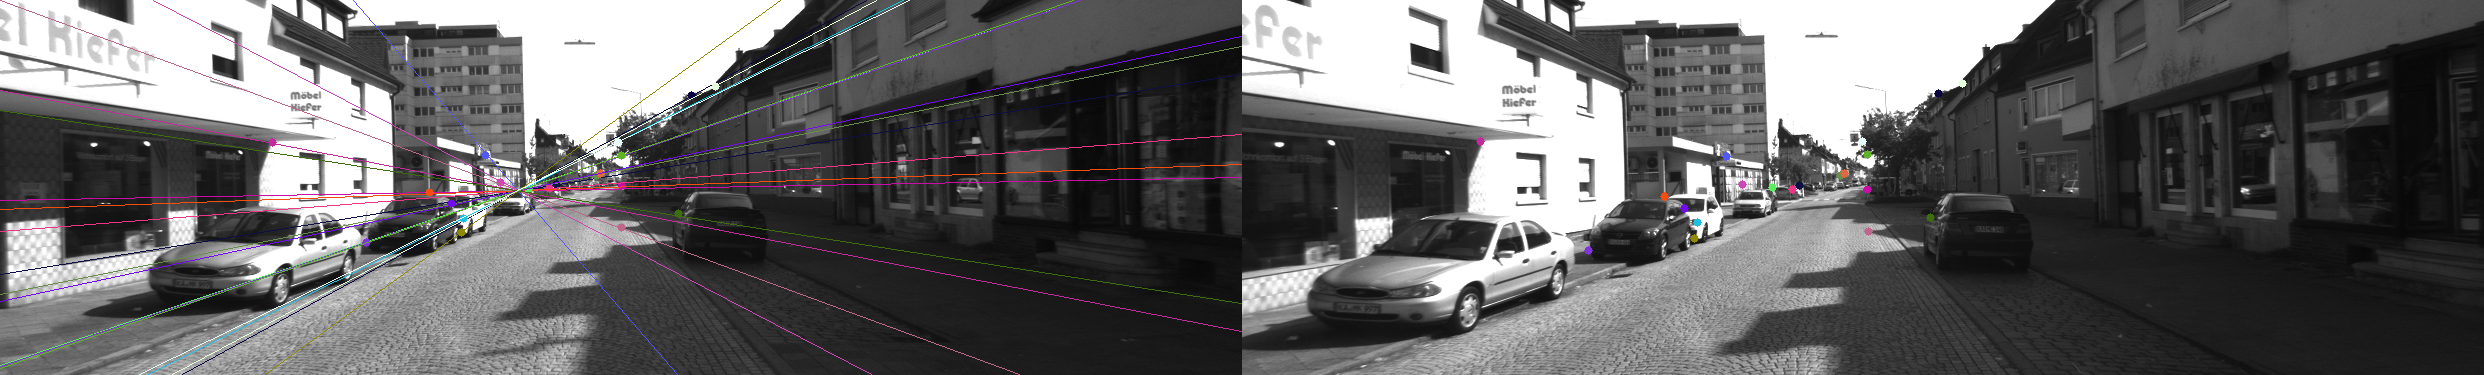
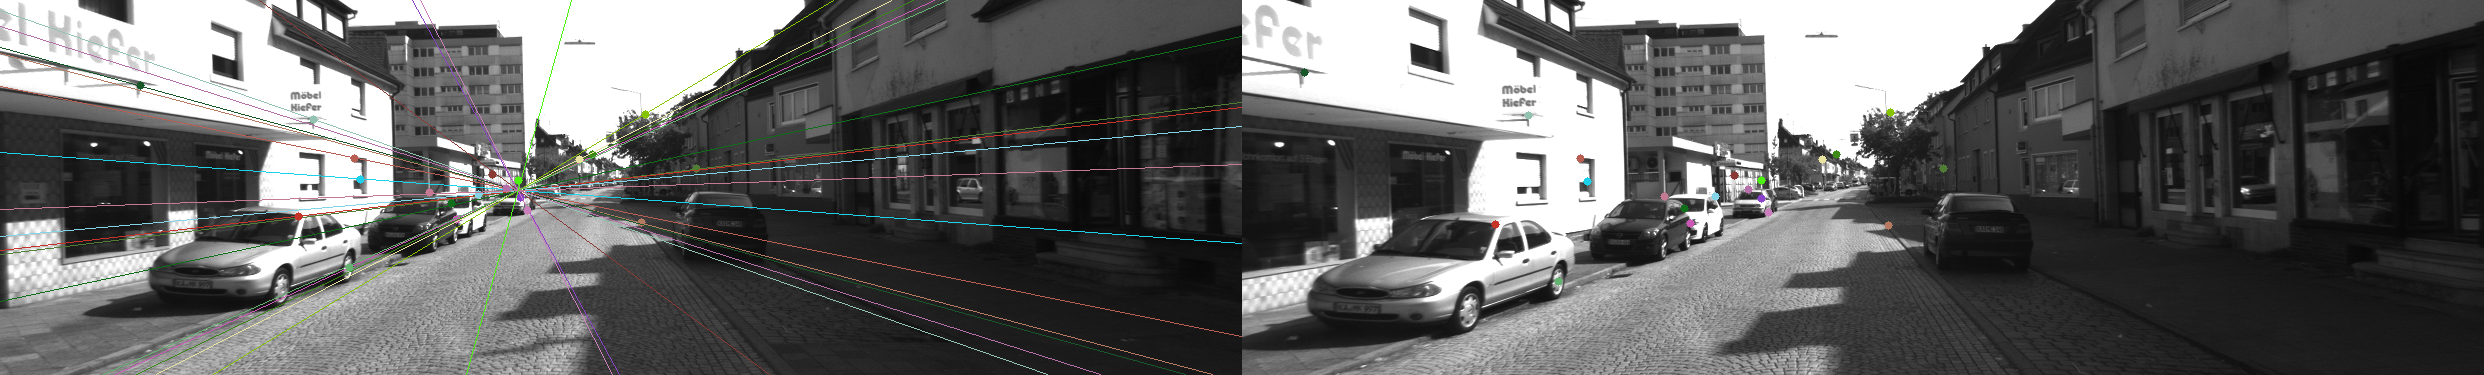
A2 done

diff --git a/code/assign2_task2.cpp b/code/assign2_task2.cpp
@@ -47,8 +47,6 @@ void drawLines(Mat& inImg1, Mat& inImg2, Mat F, vector<Point2d> pts1, vector<Poi
     vconcat(points1.t(), Mat::ones(1, points1.rows, points1.type()), points1);
     vconcat(points2.t(), Mat::ones(1, points2.rows, points2.type()), points2);
 
-    // cout << "Points 1: " << points1.row(0) << endl;
-
     RNG rng(rand());
     const int circle_sz = 4, line_sz = 1, max_lines = 300;
 
@@ -71,16 +69,12 @@ void drawLines(Mat& inImg1, Mat& inImg2, Mat F, vector<Point2d> pts1, vector<Poi
         //from opencv samples - epipolar_lines.cpp
         double a1 = l1.at<double>(0), b1 = l1.at<double>(1), c1 = l1.at<double>(2);
         double a2 = l2.at<double>(0), b2 = l2.at<double>(1), c2 = l2.at<double>(2);
-        const double mag1 = sqrt(a1*a1 + b1*b1), mag2 = (a2*a2 + b2*b2);
+        const double mag1 = sqrt(a1*a1 + b1*b1), mag2 = sqrt(a2*a2 + b2*b2);
         a1 /= mag1; b1 /= mag1; c1 /= mag1; a2 /= mag2; b2 /= mag2; c2 /= mag2;
 
-
-        line(img1, Point2d(0, -c1/b1),
-                Point2d((double)img1.cols, -(a1*img1.cols+c1)/b1), col, line_sz);
-        // line(img2, Point2d(0, -c2/b2),
-        //         Point2d((double)img2.cols, -(a2*img2.cols+c2)/b2), col, line_sz);
-        circle (img1, pts1[i], circle_sz, col, -1);
-        circle (img2, pts2[i], circle_sz, col, -1);
+        line(img1, Point2d(0, -c1/b1), Point2d((double)img1.cols, -(a1*img1.cols+c1)/b1), col, line_sz);
+        circle(img1, pts1[i], circle_sz, col, -1);
+        circle(img2, pts2[i], circle_sz, col, -1);
     }
     inImg1 = img1;
     inImg2 = img2;
@@ -110,9 +104,7 @@ void processEpipolarLines(string matchesFilePath, string img1Path, string img2Pa
     Mat img1 = imread( samples::findFile( img1Path ), IMREAD_GRAYSCALE );
     Mat img2 = imread( samples::findFile( img2Path ), IMREAD_GRAYSCALE );
 
-
     cout << detectorName << endl;
-
     for(auto match : matches)
     {
         Point2f& p1 = kp1[match.queryIdx].pt;
@@ -163,8 +155,7 @@ void processEpipolarLines(string matchesFilePath, string img1Path, string img2Pa
         fundamentalMat = K.t() * fn * K;
     }
 
-    cout << "\tFundamental: " << fundamentalMat.size() << endl<< "\t" << fundamentalMat << endl;
-    cout << "\tDeterminant: " << determinant(fundamentalMat) << endl;
+    cout << "Determinant: " << determinant(fundamentalMat) << endl;
 
     vector<Point2d> inlierPts1, inlierPts2;
     for(int i = 0; i < inliers.rows ; i ++)
@@ -179,24 +170,11 @@ void processEpipolarLines(string matchesFilePath, string img1Path, string img2Pa
     drawLines(img1, img2, fundamentalMat, inlierPts1, inlierPts2, inliers);
     hconcat(img1, img2, img1);
     string fileName = output + detectorName + "_" + getAlogorithmFromEnum(alg) + ".png";
-    cout << "\tSaving: " << fileName << endl;
+    cout << "Saving: " << fileName << endl;
     imwrite( fileName, img1);
 };
 
 int main() {
-    vector<DMatch> matches;
-    vector<KeyPoint> kp1, kp2;
-    vector<Point2d> pts1, pts2;
-    vector<Point2d> normPoints1, normPoints2;
-
-    vector<double> KLeftParams = {9.842439e+02, 0.000000e+00, 6.900000e+02, 0.000000e+00, 9.808141e+02, 2.331966e+02, 
-    0.000000e+00, 0.000000e+00, 1.000000e+00};
-
-    vector<double> KRightParams = {9.895267e+02, 0.000000e+00, 7.020000e+02, 0.000000e+00, 9.878386e+02, 2.455590e+02,
-     0.000000e+00, 0.000000e+00, 1.000000e+00};
-
-    Mat KLeft(3, 3, CV_64F, KLeftParams.data());
-    Mat KRight(3, 3, CV_64F, KRightParams.data());
 
     string left8 = "IMG_CAL_DATA/left08.png";
     string left10 = "IMG_CAL_DATA/left10.png";
@@ -253,5 +231,6 @@ int main() {
     processEpipolarLines(inputLeftRight + matchesSIFT, left8, right8, FUNDAMENTAL8P_RANSAC, LEFT_RIGHT, outputLeftRight,"SIFT");
 
     //====================================
+    
     return 0;
 }

diff --git a/code/assign2_task1.cpp b/code/assign2_task1.cpp
@@ -104,4 +104,6 @@ int main( int argc, char* argv[] )
 
     feature_matching( left8, right8, matching_out1);
     feature_matching( left8, left10, matching_out2);
+    
+    return 0;
 }
